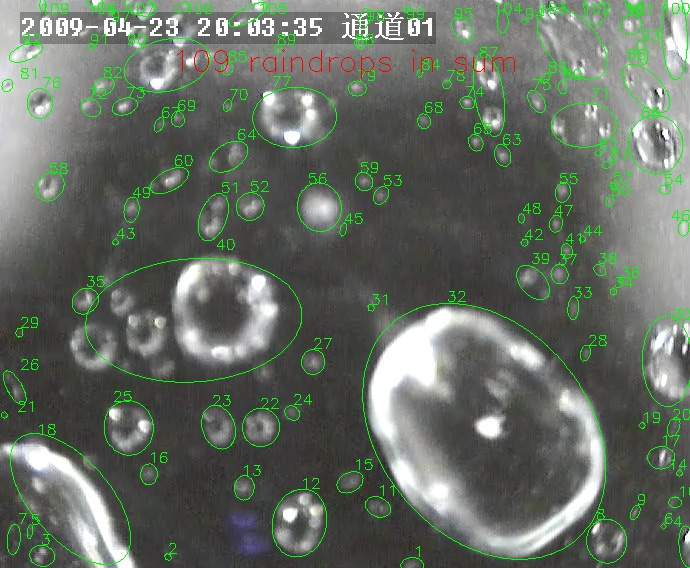
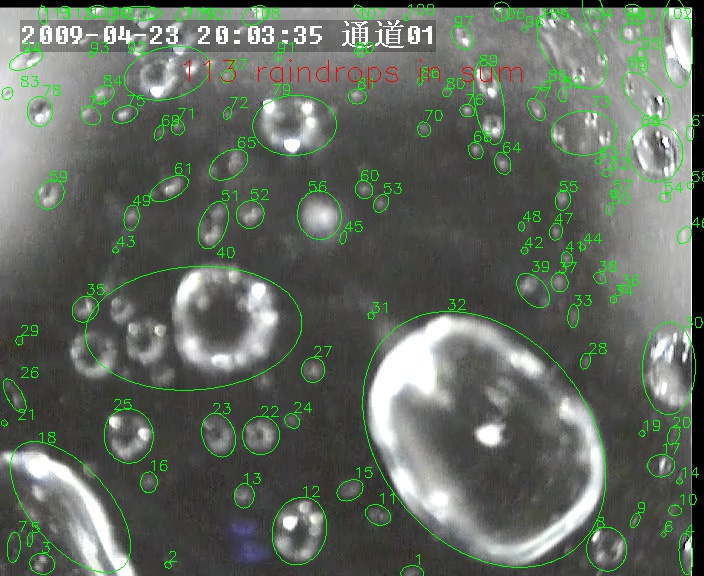
update README

diff --git a/src/main.cpp b/src/main.cpp
@@ -25,10 +25,6 @@ int main(int argc, char** argv) {
   glob(images_dir, filenames); // Read a sequence of files within a folder
   for (size_t i = 0; i < filenames.size(); ++i) {
     Mat img_original = imread(filenames[i]);
-
-    // Tailor invalid area
-    img_original = img_original(Rect(0, 8, 690, img_original.rows - 8));
-
     namedWindow("Original image");
     imshow("Original image", img_original);
     Mat img_grey;
@@ -63,7 +59,7 @@ int main(int argc, char** argv) {
     clearImgEdgeInterference(img_binary, img_binary, ratio);
 
     // Clear the numbers and characters on the top left corner
-    img_binary(Rect(20, 12, 416, 32)) = Mat::zeros(32, 416, CV_8UC1);
+    img_binary(Rect(20, 20, 416, 32)) = Mat::zeros(32, 416, CV_8UC1);
 
     // Make the edges of raindrops more continuous
     close(img_binary, img_binary);

diff --git a/src/raindrop-recog.cpp b/src/raindrop-recog.cpp
@@ -56,7 +56,7 @@ void raindropRecognition(cv::Mat& img_original, cv::Mat& img_binary,
   Size text_size = getTextSize(text_sum, font_face,
                                font_scale, thickness, &baseline);
   Point text_sum_org((img_dst.cols - text_size.width) / 2,
-                     60 + text_size.height / 2);
+                     70 + text_size.height / 2);
   putText(img_dst, text_sum, text_sum_org, font_face, font_scale,
           Scalar(0, 0, 255), thickness, 8);
 }

diff --git a/README.md b/README.md
@@ -1,2 +1,19 @@
 # raindrop-recognition
-Recognition raindrops in digital images and count the quantity
+Recognize the raindrops in digital images and count the quantity.
+
+### Process
+1. Read an image.
+2. Convert it into a grey image.
+3. Use anisotropic diffusion to erase noise.
+4. Calculate the sobel derivatives.
+5. Convert it into a binary image with a threshold.
+6. Opening operation to seperate interference from raindrops and weaken it.
+7. Remove small connected components.
+8. Closing operation to make the edges of raindrops more continuous.
+9. Remove the long straight edges interference and clear the numbers and characters on the top left corner.
+10. Closing operation again.
+11. Fill the holes inside the raindrops.
+12. Calculate fittest ellipses for contours. Count the quantity of contours. Draw the ellipses with labels and quantity on the image. Save the result image with the same name in result file folder.
+
+### Files
+The source image files are in `images\`, and the result files with corresponding names are saved in `results\`.
